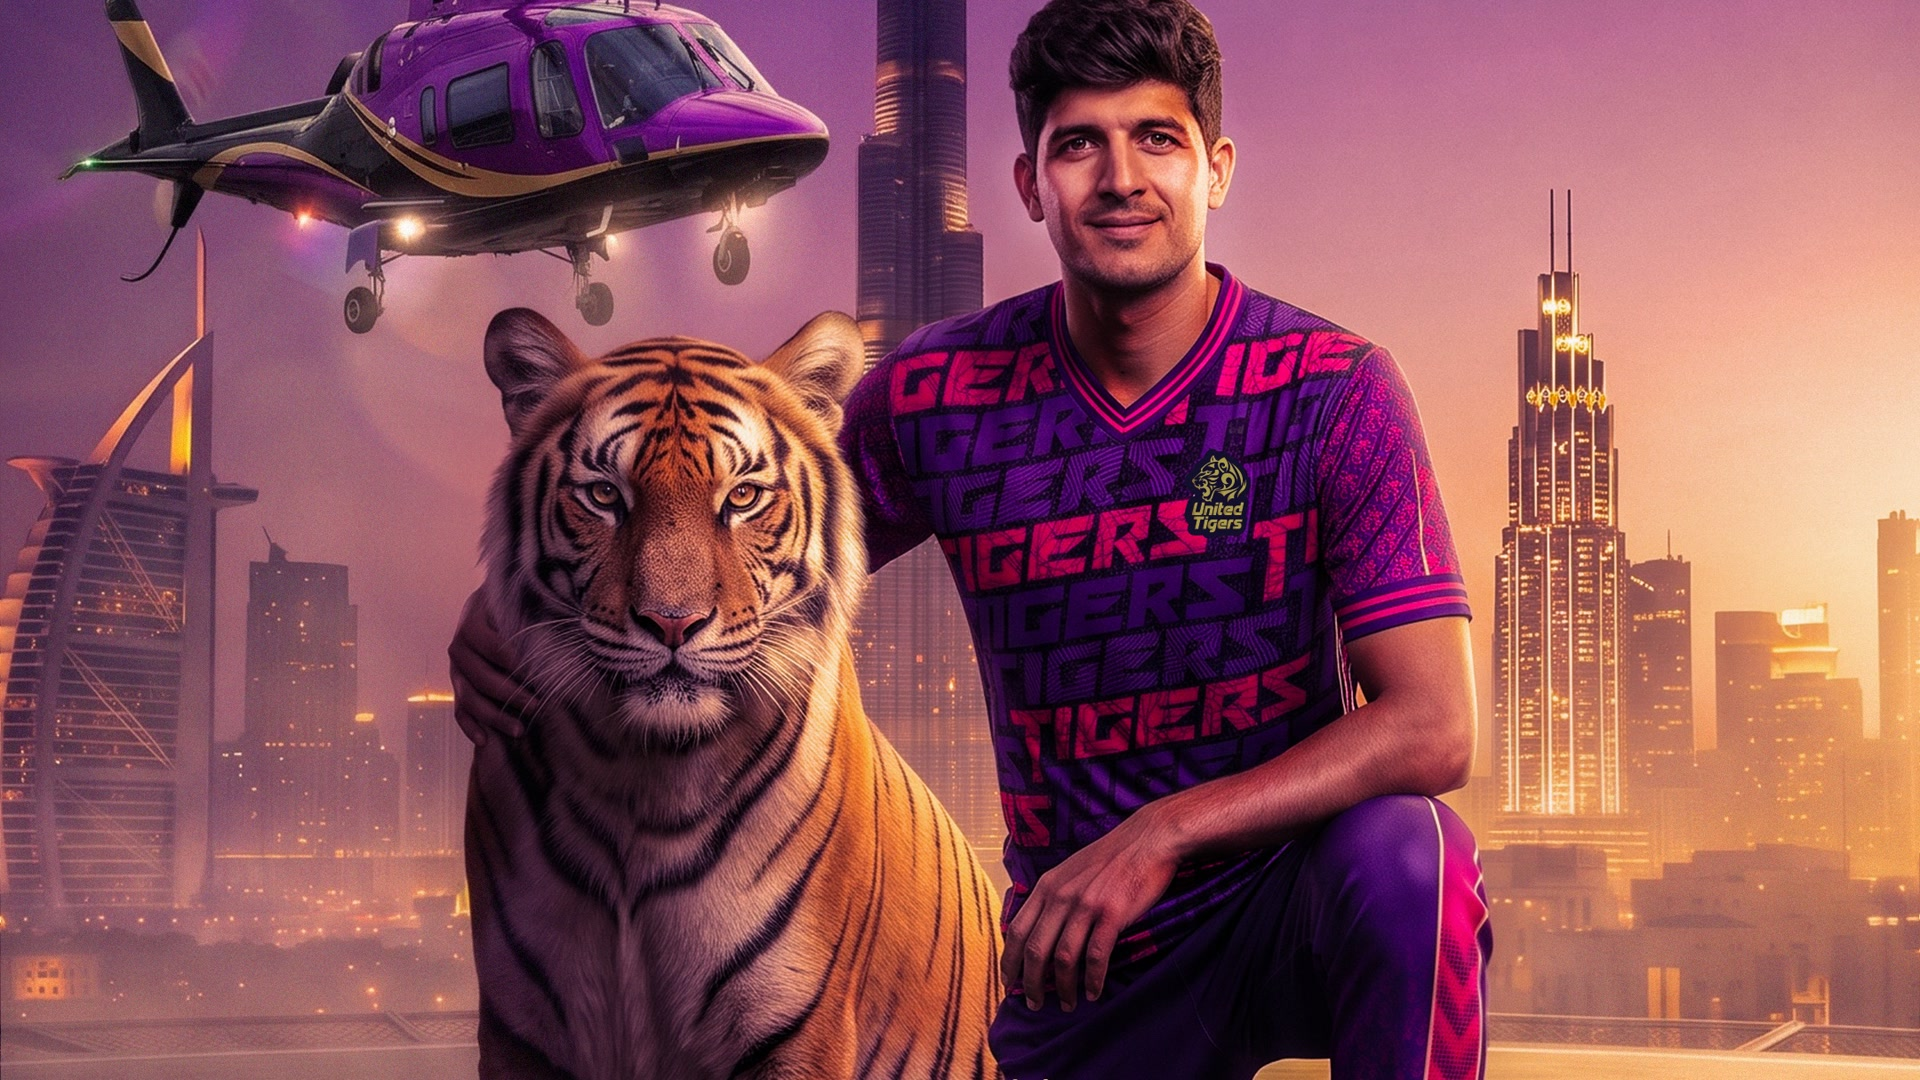
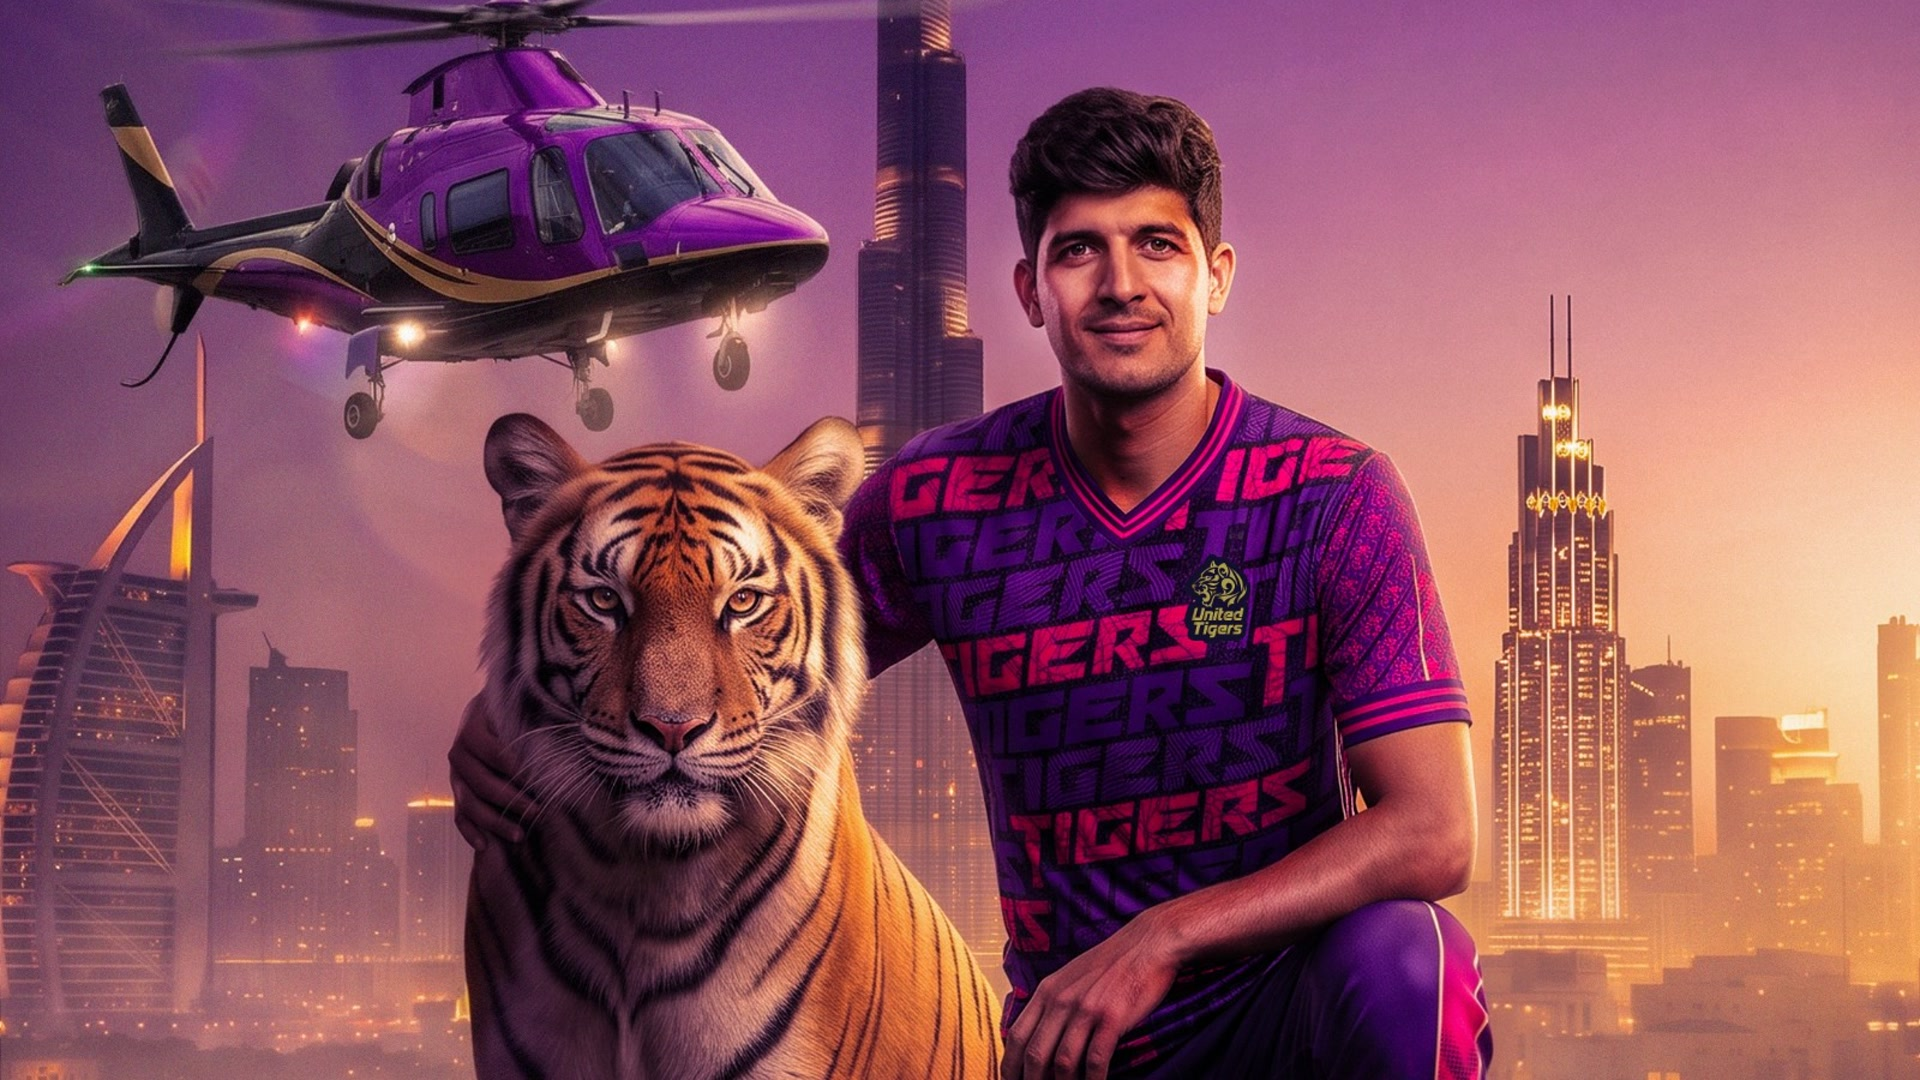
fix: refresh Mir Hamza signing thumbnail
Use the supplied signing graphic for the newsroom cover and match the welcome line to the approved announcement copy.

diff --git a/prisma/seed.ts b/prisma/seed.ts
@@ -19,7 +19,7 @@ United Tigers will be looking to make a strong impression in the 2026 Abu Dhabi 
 
 A new challenge awaits. A new Tiger joins the hunt.
 
-**Welcome to United Tigers, Mir Hamza!** 🐅🇵🇰
+Welcome to United Tigers, Mir Hamza! 🐅🇵🇰
 
 The journey starts now. The roar begins in Abu Dhabi. Let's Go Hunt!`;
 
